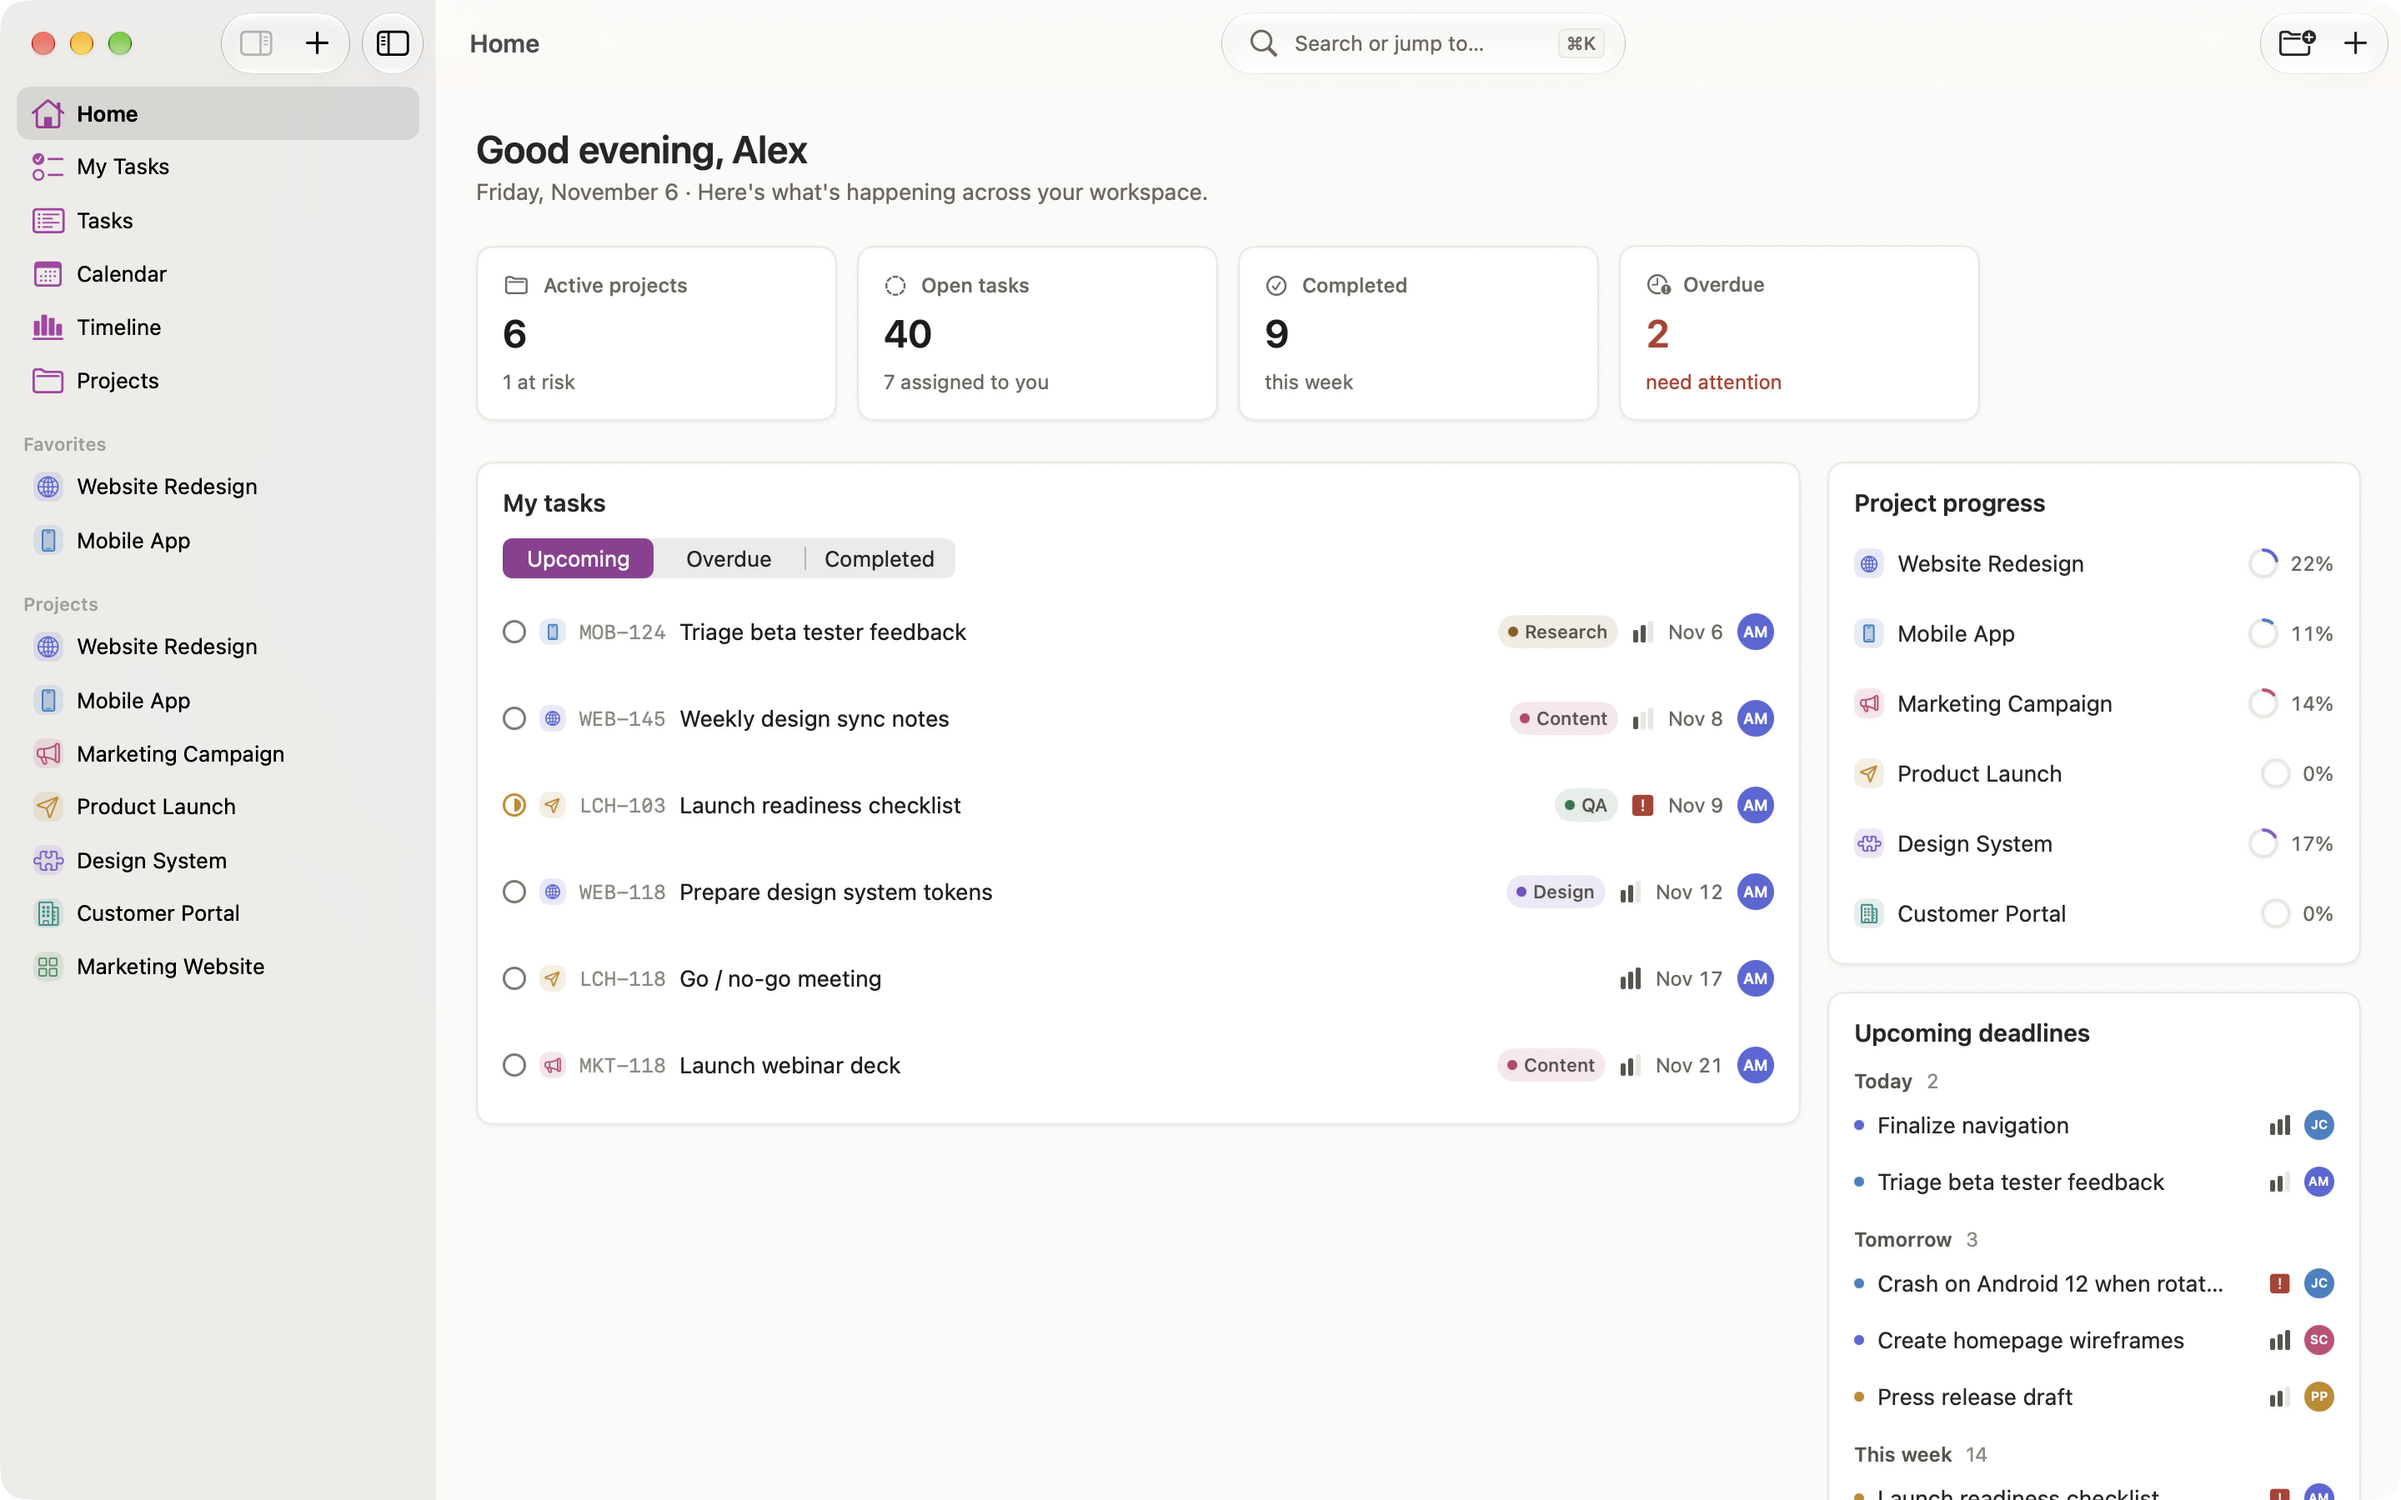
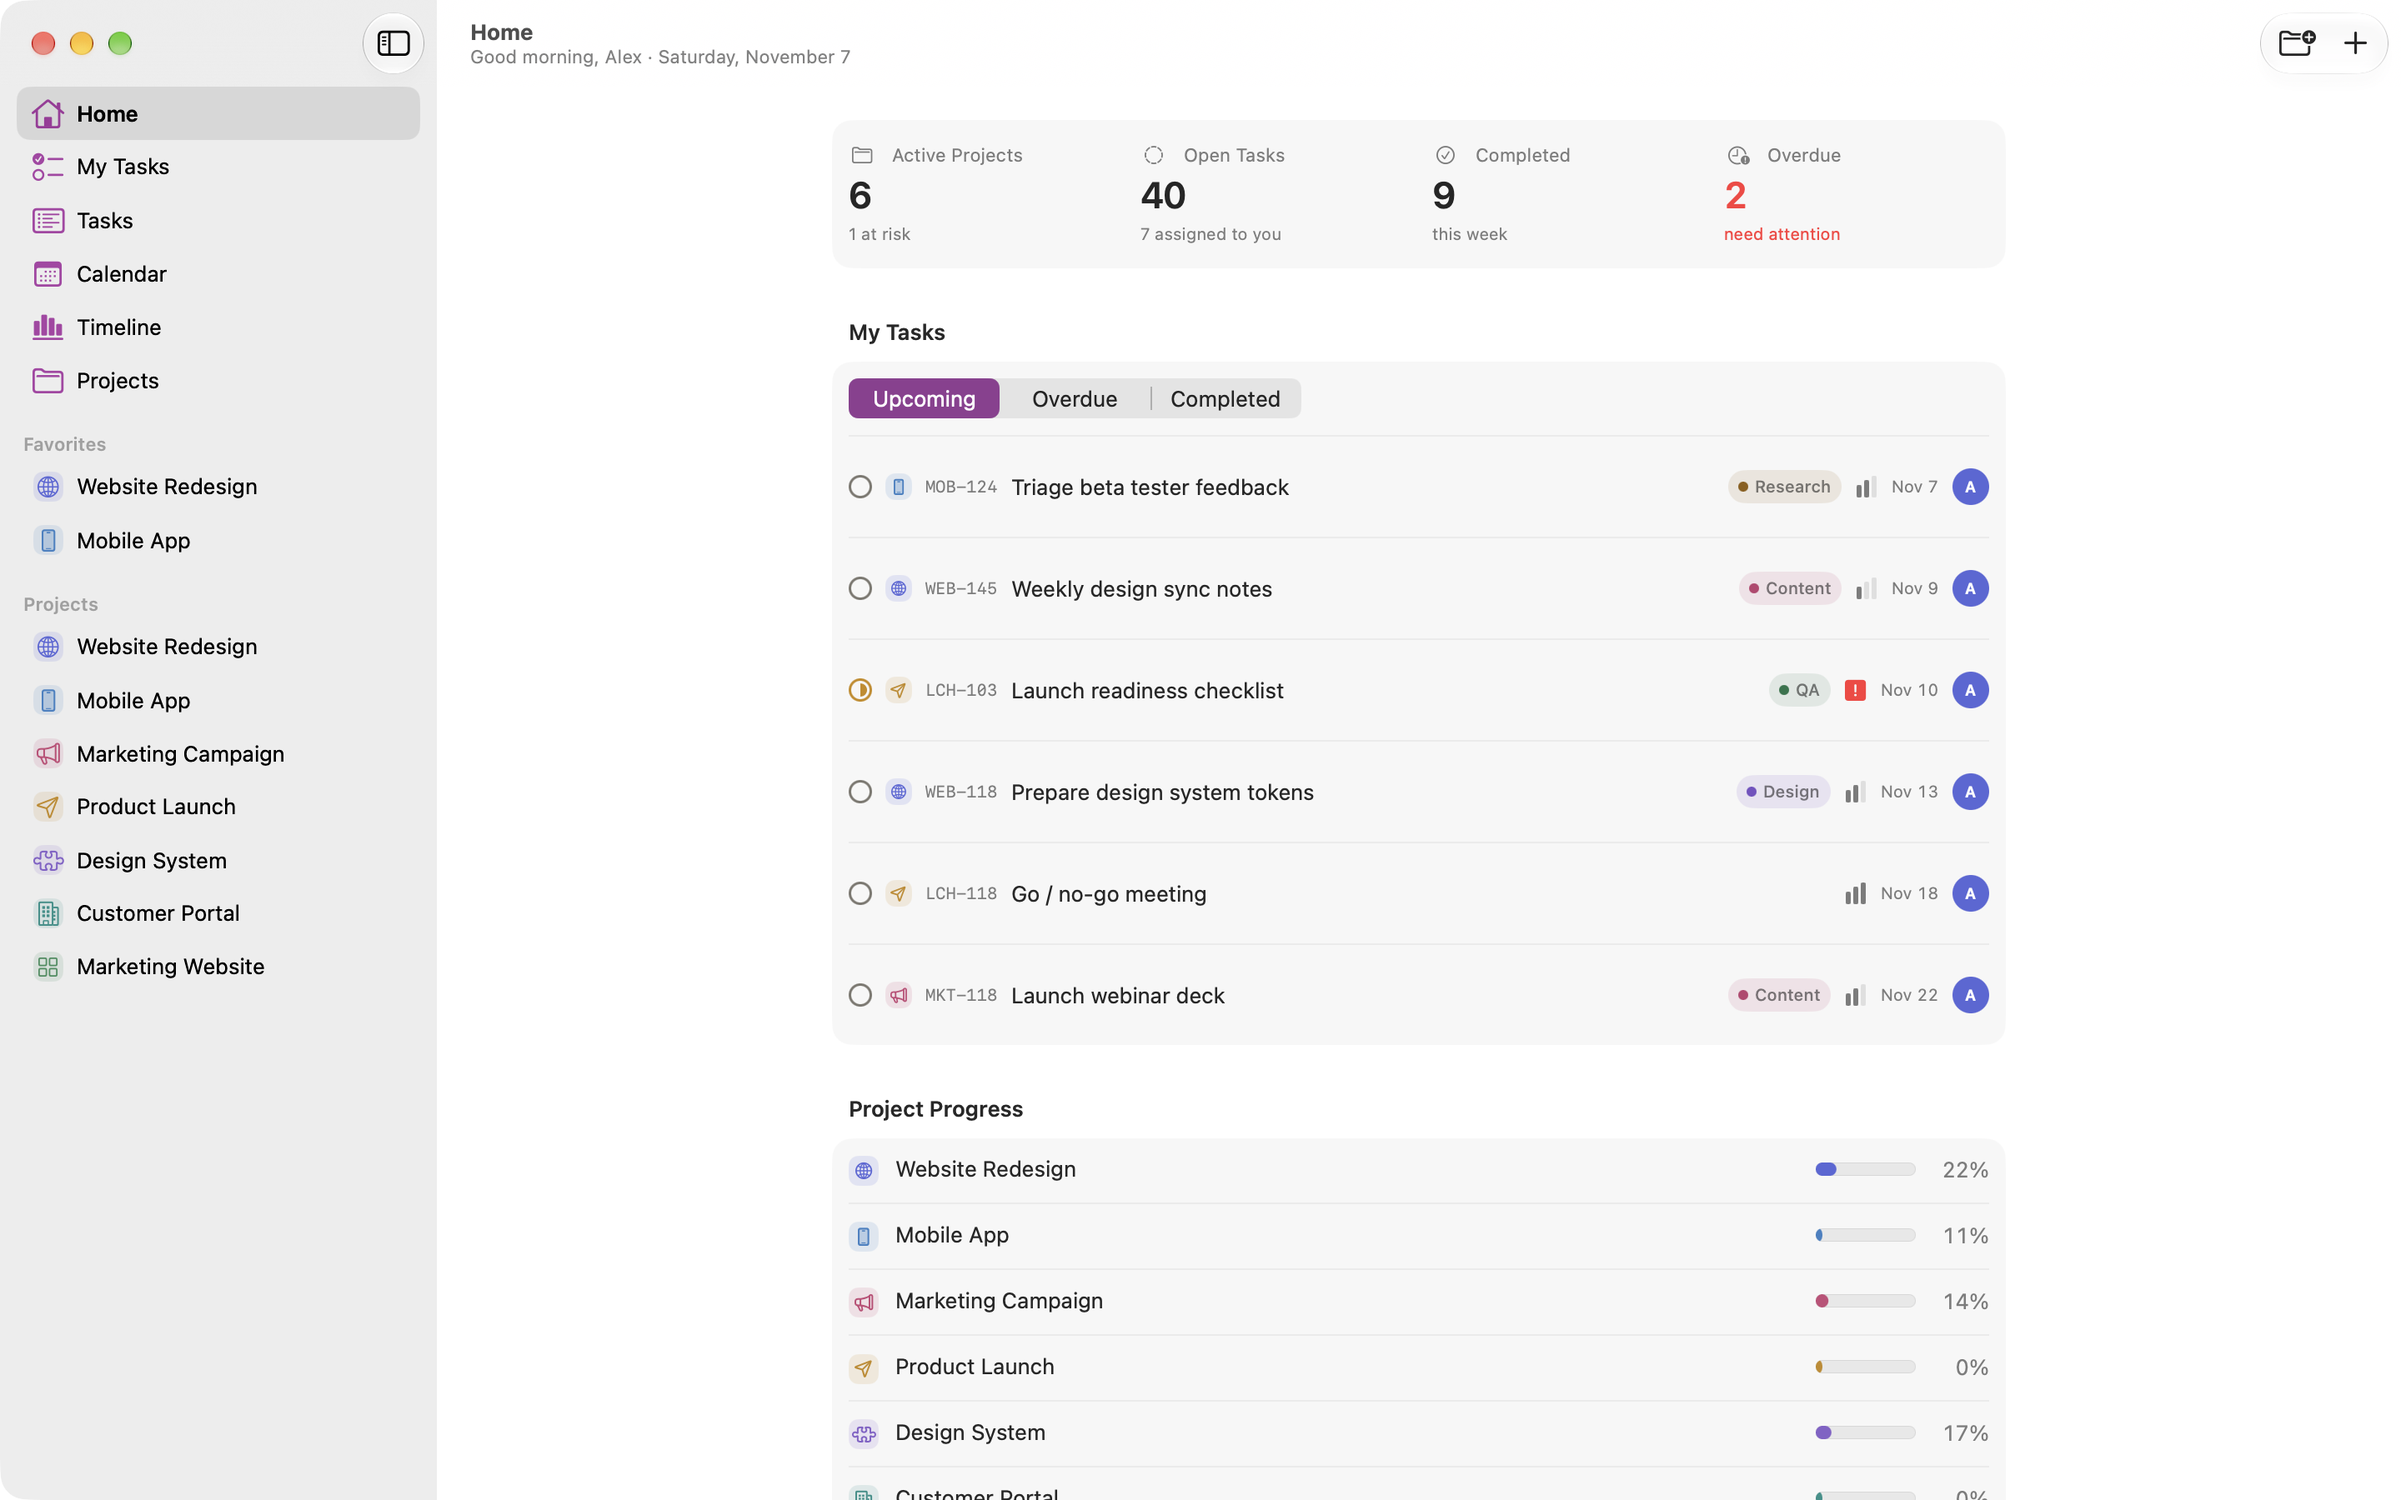
feat(tycho): retake the home screenshots on the fixed build

diff --git a/tycho/SHOTLIST.md b/tycho/SHOTLIST.md
@@ -11,6 +11,8 @@ Source: https://github.com/akira-foundation/tycho (native SwiftUI task manager f
 - [x] `table/01-inline-edit.png`: macOS table view with the inline title field focused after a click, cursor visible. NEEDED BY Wed 11/11 08:00
 - [x] `table/02-ios-cards.png`: iPhone table view of Website Redesign, rows shown as cards.
 - [x] `home/01-home.png`: the focused home screen with today's tasks. NEEDED BY Fri 13/11 08:00
+- [x] `home/02-overdue-filter.png`: macOS, Tasks opened from the Overdue card on Home, with that filter already applied.
+- [x] `home/03-ios-home.png`: iOS 27 simulator, the Home screen with the counts and My Tasks.
 - [x] `palette/01-command-k.png`: macOS, the Command-K palette open over a demo project, with suggestions, recent tasks and navigation, the field empty. NEEDED BY Thu 12/11 08:00
 - [x] `palette/02-search.png`: macOS, the Command-K palette with "design" typed, showing task and project results. NEEDED BY Thu 12/11 08:00
 - [x] `palette/03-view-all.png`: macOS, the Search page opened from "View all results" for "design", with a count per scope.

diff --git a/tycho/home/post.md b/tycho/home/post.md
@@ -15,3 +15,5 @@ Tycho opens on Home: today's tasks, and cards for what's open, done and overdue.
 ## Screenshots
 
 - `01-home.png`
+- `02-overdue-filter.png`
+- `03-ios-home.png`
